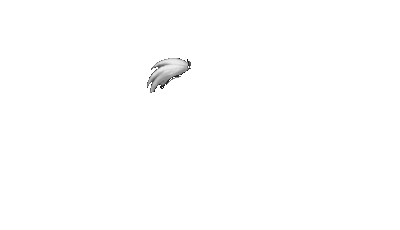
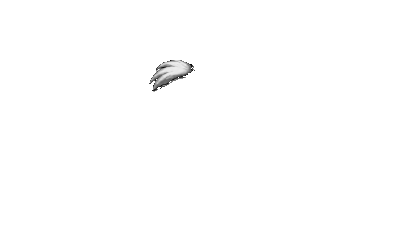
Dual slash: user's Gemini slash waves as an effect layer, motion-blurred weapon
Cells 3 and 4 of the male dual sheet are the user's Gemini redraws. The wave is
split into soldier_dual_m_fx.png (soft alpha, kept out of the skin key) and the
hidden fists are given in soldier_dual_m_grips.json. The swinging weapon is
drawn motion-blurred inside the wave; the code wave remains the fallback.

Claude-Session: https://claude.ai/code/session_01M8ejkLTav7LEMdtajuWjkN

Changed region(s): [[0.36, 0.2435, 0.48, 0.3957]]

diff --git a/art_source/new_art/battle/process_battle.py b/art_source/new_art/battle/process_battle.py
@@ -233,6 +233,26 @@ def toward_longer(v, mask):
     return v
 
 
+# drawn effects (slash waves from the user's Gemini redraws): cut cell RGBA in, body-canvas RGBA out
+CELL_FX, FX_LAYERS, GRIP_AT = {}, {}, {}
+
+
+def fx_to_body(f, s, ground):
+    """Same geometry as to_body, keeping the effect's soft alpha."""
+    al = f[..., 3].astype(np.float32) / 255
+    W, H = round(f.shape[1] * s), round(f.shape[0] * s)
+    pm = [np.asarray(Image.fromarray(f[..., k].astype(np.float32) * al).resize((W, H), Image.BOX)) for k in range(3)]
+    am = np.asarray(Image.fromarray(al).resize((W, H), Image.BOX))
+    rgb = np.dstack(pm) / np.maximum(am, 1e-6)[..., None]
+    out = np.zeros((BODY_H, BODY_W, 4), np.uint8)
+    oy = FEET_Y - round(ground * s); ox = (BODY_W - W) // 2
+    ys, xs = np.where(am > 0.004)
+    ty, tx = ys + oy, xs + ox; k = (ty >= 0) & (ty < BODY_H) & (tx >= 0) & (tx < BODY_W)
+    out[ty[k], tx[k], :3] = np.clip(rgb[ys[k], xs[k]], 0, 255).astype(np.uint8)
+    out[ty[k], tx[k], 3] = np.clip(am[ys[k], xs[k]] * 255, 0, 255).astype(np.uint8)
+    return out
+
+
 def one_cell(cls, sex, stance, state, c, fg, s):
     st = state.split('_')[0]
     # attack2 reads like attack; a spear's ready keeps its tip forward (like attack), other wind-ups keep the weapon up
@@ -255,6 +275,16 @@ def one_cell(cls, sex, stance, state, c, fg, s):
         g = PP.orient({'back': hand(m, body)}, o); rods = m
     else:
         g = PP.orient(PP.grips_for(m, stance, body), o); rods = m
+    for h_ in ('back', 'front'):                           # hand-given fist positions (see <sheet>_grips.json)
+        if (sex, stance, state, h_) in GRIP_AT and h_ in g:
+            cx_, cy_ = GRIP_AT[(sex, stance, state, h_)]
+            W_ = round(c.shape[1] * s)
+            g[h_]['point'] = [round(cx_ * s + (BODY_W - W_) // 2, 1), round(cy_ * s + FEET_Y - round(ground * s), 1)]
+    if state in SLASH_HIDE and SLASH_HIDE[state][0] in g:    # hidden blade points along its swing
+        import math
+        hh, kind = SLASH_HIDE[state]; a_ = math.radians(g[hh]['angle'])
+        if (kind == 'sweep' and math.cos(a_) < 0) or (kind == 'chop' and math.sin(a_) < 0):
+            g[hh]['angle'] = round(float((g[hh]['angle'] + 360) % 360 - 180), 1)
     clean, on = clean_rods(body, rods, on)
     pts = [v['point'] for v in g.values() if isinstance(v, dict) and 'point' in v]
     fixed, skin, head, hairp = skin_split(clean, on, pts)
@@ -264,6 +294,10 @@ def one_cell(cls, sex, stance, state, c, fg, s):
     json.dump({'grips': g, 'head': head, 'scale': round(s, 4)}, open(os.path.join(HERE, 'grips', f'{n}.json'), 'w'))
     print(n, {k: (v.get('point'), v.get('angle')) for k, v in g.items() if isinstance(v, dict) and 'point' in v}, 'head', head)
     if hairp is not None: Image.fromarray(hairp, 'LA').save(os.path.join(HERE, 'layers', f'{n}_hair.png'))
+    if (sex, stance, state) in CELL_FX:
+        fxl = fx_to_body(CELL_FX[(sex, stance, state)], s, ground)
+        FX_LAYERS[(sex, stance, state)] = fxl
+        Image.fromarray(fxl).save(os.path.join(HERE, 'layers', f'{n}_fx.png'))
     return fixed, skin, g, head, hairp
 
 
@@ -293,10 +327,19 @@ def process(cls):
             sx, sy = a.shape[1] / 1536, a.shape[0] / 1024
             main = fname == sheets[0][0]
             cut = {}
+            fxp = os.path.join(HERE, 'source', fname.replace('_sheet.png', '_fx.png'))
+            fxa = np.asarray(Image.open(fxp).convert('RGBA')) if os.path.exists(fxp) else None
             for r, c, stance, state, (x0, y0, x1, y1) in cells(rws, cls):
                 if main and stance in extra_stances: continue          # that stance comes from its own sheet now
                 box = (round(x0 * sx), round(y0 * sy), round(x1 * sx), round(y1 * sy))
                 cut[(stance, state)] = cut_cell(a, box)
+                gjp = os.path.join(HERE, 'source', fname.replace('_sheet.png', '_grips.json'))
+                if os.path.exists(gjp):                       # fists hidden in a drawn effect: positions given by hand
+                    for h_, (gx_, gy_) in json.load(open(gjp)).get(state, {}).items():
+                        GRIP_AT[(sex, stance, state, h_)] = (gx_ * sx - 4, gy_ * sy - 4)   # cell px -> cut-cell px
+                if fxa is not None:
+                    f_ = fxa[box[1] + 4:box[3] - 4, box[0] + 4:box[2] - 4]
+                    if f_[..., 3].any(): CELL_FX[(sex, stance, state)] = f_
             hs = [figure_height(*cut[k])[0] for k in cut if k[1] == 'stand']
             s_sheet = FIG_H / float(np.median(hs))                  # each sheet scaled by its own stand figures
             if main: s = s_sheet
@@ -327,8 +370,8 @@ def split2h(g):
     return g
 
 
-# slash frames: the swinging hand's weapon is hidden behind a slash wave (user, 2026-11-21);
-# both weapons show again in FINISH. slash_left = off-hand (cyan, 'front') chop, slash_right = main hand (magenta, 'back') sweep.
+# slash frames (user, 2026-11-21): the swinging hand's weapon is drawn motion-blurred inside a slash wave (the wave the
+# user drew with Gemini, from <sheet>_fx.png, else slash_wave() in code); both weapons show normally again in FINISH. slash_left = off-hand (cyan, 'front') chop, slash_right = main hand (magenta, 'back') sweep.
 SLASH_HIDE = {'slash_left': ('front', 'chop'), 'slash_right': ('back', 'sweep')}
 
 
@@ -368,6 +411,33 @@ def slash_wave(im, kind, F, ang, L, SS=4):
     return np.asarray(out)
 
 
+def blur_weapon(im, wname, F, ang, kind, fist_r):
+    """The swinging weapon drawn fast: a few fading ghost copies along the swing, softened, plus the blade itself
+    slightly see-through. The handle inside the fist is left out so the blade comes out of the hand."""
+    import math
+    from PIL import ImageFilter
+    H, W = im.shape[:2]
+    def one(a, dx=0.0, dy=0.0, alpha=1.0):
+        img, gp, L = A.WEAPON[wname](a)
+        lay = np.zeros((H, W, 4), np.uint8); A.paste(lay, img, F[0] - gp[0] + dx, F[1] - gp[1] + dy)
+        lay = lay.astype(np.float32); lay[..., 3] *= alpha; return lay
+    ghosts = np.zeros((H, W, 4), np.float32)
+    N = 6
+    for k in range(N, 0, -1):               # oldest first, newer copies on top
+        if kind == 'chop':                   # came down from overhead: earlier = rotated back up about the fist
+            g_ = one(ang - 11 * k, alpha=0.5 * (1 - k / (N + 1)))
+        else:                                # backhand sweep: the hand came from the front, earlier = further right
+            g_ = one(ang - 2.5 * k, dx=7 * k, dy=-1.2 * k, alpha=0.5 * (1 - k / (N + 1)))
+        m = g_[..., 3] > 0; ghosts[m] = g_[m]
+    gim = Image.fromarray(np.clip(ghosts, 0, 255).astype(np.uint8)).filter(ImageFilter.GaussianBlur(1.6))
+    blade = Image.fromarray(np.clip(one(ang, alpha=0.88), 0, 255).astype(np.uint8)).filter(ImageFilter.GaussianBlur(0.7))
+    yy, xx = np.mgrid[:H, :W]; inside = np.hypot(xx - F[0], yy - F[1]) < fist_r
+    out = Image.fromarray(im).convert('RGBA')
+    for lay in (gim, blade):
+        la = np.asarray(lay).copy(); la[inside, 3] = 0; out.alpha_composite(Image.fromarray(la))
+    return np.asarray(out)
+
+
 def feet(b):
     ys, xs = np.where(b[..., 3] > 0); bot = ys.max(); low = ys > bot - 10
     return float(xs[low].mean()), float(bot)
@@ -404,7 +474,14 @@ def render(cls, data):
                 if hidden:
                     p, ang = g2[hide]['point'], g2[hide]['angle']
                     L = A.WEAPON[hidden[0]](ang)[2]
-                    im = slash_wave(im, kind, (A.CELL + dx + p[0], A.TOP + dy + p[1]), ang, L)
+                    F = (A.CELL + dx + p[0], A.TOP + dy + p[1])
+                    fxl = FX_LAYERS.get((sex, stance, state))
+                    if fxl is not None:              # the slash wave drawn by the user (Gemini), over the body
+                        o_ = Image.fromarray(im).convert('RGBA'); lay = np.zeros_like(np.asarray(o_)); A.paste(lay, fxl, A.CELL + dx, A.TOP + dy)
+                        o_.alpha_composite(Image.fromarray(lay)); im = np.asarray(o_)
+                    else:
+                        im = slash_wave(im, kind, F, ang, L)
+                    im = blur_weapon(im, hidden[0], F, ang, kind, max(4.5, g2[hide].get('fist_gap', 9) / 2))
                 if head and hair and cls not in HEADGEAR:
                     hl, hx, hy = hair_layer(sex, hair, hramp, head)
                     A.paste(im := im.copy(), hl, A.CELL + dx + hx, A.TOP + dy + hy)

diff --git a/art_source/new_art/battle/tools/gemini_fx_compose.py b/art_source/new_art/battle/tools/gemini_fx_compose.py
@@ -1,0 +1,72 @@
+"""Put the user's Gemini slash poses (cells 3 and 4) into the male dual sheet: body on green, slash wave as a separate
+RGBA layer (soldier_dual_m_fx.png, same size as the sheet), and a rod for the hidden hand so the grip is measured."""
+import numpy as np, math
+from PIL import Image, ImageDraw
+from scipy import ndimage as ndi
+SHEET = 'soldier_dual_m_sheet.png'
+sheet = np.asarray(Image.open(SHEET).convert('RGB')).copy()
+fxs = np.zeros(sheet.shape[:2] + (4,), np.uint8)
+def isgreen(a): a = a.astype(int); return (a[..., 1] - a[..., 0] > 60) & (a[..., 1] - a[..., 2] > 60)
+def rods(a):
+    a = a.astype(int); r, g, b = a[..., 0], a[..., 1], a[..., 2]
+    return ((r > 170) & (b > 170) & (g < 120)) | ((g > 170) & (b > 170) & (r < 120))
+def fig_box(mask, rodm):
+    m = mask & ~ndi.binary_dilation(rodm, iterations=3)
+    ys, xs = np.where(m); bot = ys.max(); low = ys > bot - 12
+    return ys.min(), bot, xs[low].mean()
+# (cell index, gemini name, hidden-hand fist in gemini px, blade angle, rod colour)
+JOBS = [(3, 'gem3', (840, 595), 60, (0, 255, 255)), (4, 'gem4', (255, 515), 18, (255, 0, 255))]
+STATE = {3: ('slash_left', 'front'), 4: ('slash_right', 'back')}
+GRIPS = {}
+c1 = sheet[0:512, 0:512]
+for idx, name, fist, ang, rc in JOBS:
+    r_, c_ = divmod(idx - 1, 3); y0, x0 = r_ * 512, c_ * 512
+    cell = sheet[y0:y0 + 512, x0:x0 + 512]
+    cm = ~isgreen(cell); cm[:6] = cm[-6:] = False; cm[:, :6] = cm[:, -6:] = False
+    gyc = 380 + int(np.argmax((cm[380:450] & (cell[380:450].astype(int).sum(-1) < 150)).sum(1)))
+    cm[gyc - 2:gyc + 3] &= ~(cell[gyc - 2:gyc + 3].astype(int).sum(-1) < 120)   # the ground line itself
+    lab, n = ndi.label(cm, np.ones((3, 3))); sz = ndi.sum(cm, lab, range(1, n + 1))
+    cm = np.isin(lab, [i + 1 for i, z in enumerate(sz) if z > 200])
+    t, bot, fx_ = fig_box(cm, rods(cell))
+    g = np.asarray(Image.open(name + '_body.png').convert('RGB')); full = np.load(name + '_full.npy')
+    gfx = np.asarray(Image.open(name + '_fx.png'))
+    gt, gb, gx = fig_box(full, rods(g))
+    s = (bot - t) / (gb - gt)
+    W, H = round(g.shape[1] * s), round(g.shape[0] * s)
+    al = full.astype(np.float32)
+    pm = np.dstack([np.asarray(Image.fromarray(g[..., k].astype(np.float32) * al).resize((W, H), Image.BOX)) for k in range(3)])
+    am = np.asarray(Image.fromarray(al).resize((W, H), Image.BOX))
+    rgb = pm / np.maximum(am, 1e-6)[..., None]
+    fa = gfx[..., 3].astype(np.float32) / 255
+    fpm = np.dstack([np.asarray(Image.fromarray(gfx[..., k].astype(np.float32) * fa).resize((W, H), Image.BOX)) for k in range(3)])
+    fam = np.asarray(Image.fromarray(fa).resize((W, H), Image.BOX))
+    frgb = fpm / np.maximum(fam, 1e-6)[..., None]
+    ox, oy = round(fx_ - gx * s), round(bot - gb * s)
+    # clean cell: green + the template lines of cell 1 (ground line drawn full width)
+    new = np.zeros_like(cell); new[:] = (0, 255, 0)
+    gy = 400 + int(np.argmax((c1[400:430].astype(int).sum(-1) < 150).sum(1)))
+    new[gy - 1:gy + 2, 14:498] = c1[gy, 14:498].min(0) if False else (20, 20, 20)
+    dash = (c1[110:140].astype(int).sum(-1) < 300) & ~isgreen(c1[110:140])
+    dash[:, 200:340] = False                                         # skip cell 1's helmet
+    new[110:140][dash] = c1[110:140][dash]
+    new[:3] = cell[:3]; new[-3:] = cell[-3:]; new[:, :3] = cell[:, :3]; new[:, -3:] = cell[:, -3:]
+    ys, xs = np.where(am > 0.5)
+    ty, tx = ys + oy, xs + ox; k = (ty >= 3) & (ty < 509) & (tx >= 3) & (tx < 509)
+    new[ty[k], tx[k]] = np.clip(rgb[ys[k], xs[k]], 0, 255).astype(np.uint8)
+    # rod for the hidden hand: through the fist, mostly on the blade side; fist pixels stay on top
+    F = np.array(fist, float) * s + (ox, oy); d = np.array([math.cos(math.radians(ang)), math.sin(math.radians(ang))])
+    fistm = np.zeros((512, 512), bool); yy, xx = np.mgrid[:512, :512]
+    fistm = (np.hypot(xx - F[0], yy - F[1]) < 9) & ~isgreen(new)
+    keep = new[fistm].copy()
+    im = Image.fromarray(new); ImageDraw.Draw(im).line([tuple(F - d * 16), tuple(F + d * 70)], fill=rc, width=8)
+    new = np.asarray(im).copy(); new[fistm] = keep
+    sheet[y0:y0 + 512, x0:x0 + 512] = new
+    ys, xs = np.where(fam > 0.003)
+    ty, tx = ys + oy, xs + ox; k = (ty >= 0) & (ty < 512) & (tx >= 0) & (tx < 512)
+    fxs[y0 + ty[k], x0 + tx[k], :3] = np.clip(frgb[ys[k], xs[k]], 0, 255).astype(np.uint8)
+    fxs[y0 + ty[k], x0 + tx[k], 3] = (fam[ys[k], xs[k]] * 255).astype(np.uint8)
+    GRIPS.setdefault(STATE[idx][0], {})[STATE[idx][1]] = [round(float(F[0]), 1), round(float(F[1]), 1)]
+    print(name, 'scale', round(s, 4), 'offset', ox, oy, 'fist', F.round(1))
+import json; json.dump(GRIPS, open('soldier_dual_m_grips.json', 'w'), indent=1)
+Image.fromarray(sheet).save('soldier_dual_m_sheet_gem.png'); Image.fromarray(fxs).save('soldier_dual_m_fx.png')
+v = Image.fromarray(sheet).convert('RGBA'); v.alpha_composite(Image.fromarray(fxs)); v.convert('RGB').resize((1152, 768), Image.LANCZOS).save('gem_sheet_view.png')

diff --git a/art_source/new_art/battle/tools/gemini_fx_split.py b/art_source/new_art/battle/tools/gemini_fx_split.py
@@ -1,0 +1,70 @@
+import numpy as np, cv2
+from PIL import Image
+from scipy import ndimage as ndi
+def split(path, face_box, hide_poly=None):
+    a = np.asarray(Image.open(path).convert('RGB')).astype(int)
+    r, g, b = a[..., 0], a[..., 1], a[..., 2]; mx = a.max(-1)
+    bg = mx <= 14
+    lab, n = ndi.label(bg); edge = set(np.unique(np.r_[lab[0], lab[-1], lab[:, 0], lab[:, -1]])) - {0}
+    bg_out = np.isin(lab, list(edge))                       # background reachable from the border
+    wave = ((b < 0.35 * r) & (r > 60) & (g > 0.35 * r)) | ((g - b > 18) & (np.minimum(r, g) > 200))
+    x0, y0, x1, y1 = face_box; wave[y0:y1, x0:x1] = False
+    wl, wn = ndi.label(wave, np.ones((3, 3))); ws = ndi.sum(wave, wl, range(1, wn + 1))
+    wave = np.isin(wl, [i + 1 for i, z in enumerate(ws) if z > 15000])
+    bright = (np.minimum(np.minimum(r, g), b) > 185) & (g >= b) & ~bg       # white core of the streaks
+    bright[y0:y1, x0:x1] = False
+    for _ in range(40):
+        nw = wave | (bright & ndi.binary_dilation(wave, iterations=2))
+        if (nw == wave).all(): break
+        wave = nw
+    # glow fringe: dark warm pixels next to the wave over the background
+    fr = ndi.binary_dilation(wave, iterations=6) & ~wave & (r > g) & (g >= b) & (r - b > 12) & (mx < 120)
+    fxm = wave | fr
+    # thick dark streaks of the glow (not thin outlines) near the wave belong to the glow
+    darkb = (mx < 60) & ~bg & ndi.binary_dilation(wave, iterations=30)
+    darkb = ndi.binary_opening(darkb, iterations=3)
+    darkb = ndi.binary_dilation(darkb, iterations=1) & (mx < 80)
+    fxm |= darkb
+    body = ~bg & ~fxm
+    bl, bn = ndi.label(body, np.ones((3, 3))); bs = ndi.sum(body, bl, range(1, bn + 1))
+    body = np.isin(bl, [i + 1 for i, z in enumerate(bs) if z > 400])
+    # body hidden under the wave: wave / gap pixels with body above AND below in the same column (within 140 px)
+    up = np.zeros_like(body); dn = np.zeros_like(body)
+    for k in range(1, 241, 3):
+        up[k:] |= body[:-k]; dn[:-k] |= body[k:]
+    hid = (fxm | (bg & ~bg_out) | (bg & ndi.binary_dilation(fxm, iterations=8))) & up & dn & ~body
+    hid = ndi.binary_closing(hid, iterations=2) & ~body
+    if hide_poly is not None:                                   # hand-marked body area under the wave
+        from PIL import ImageDraw
+        pm = Image.new('L', (a.shape[1], a.shape[0]), 0); ImageDraw.Draw(pm).polygon(hide_poly, fill=1)
+        hid = (np.asarray(pm) > 0) & ~body & up & dn
+    full = body | hid
+    fl, fn = ndi.label(ndi.binary_closing(full, iterations=2), np.ones((3, 3)))
+    fs = ndi.sum(full, fl, range(1, fn + 1))
+    rodpx = ((g > 170) & (b > 170) & (r < 120)) | ((r > 170) & (b > 170) & (g < 120))     # guide rods stay body
+    rid = set(np.unique(fl[rodpx & full])) - {0}
+    full = full & np.isin(fl, [i + 1 for i, z in enumerate(fs) if z > 20000 or (i + 1) in rid]); body = body & full; hid = hid & full
+    fxm = ~bg & ~body                                          # every leftover bit belongs to the glow layer
+    img = a.astype(np.uint8).copy()
+    iy, ix = ndi.distance_transform_edt(~body, return_distances=False, return_indices=True)
+    img[~body] = img[iy[~body], ix[~body]]                     # every non-body pixel takes the nearest body colour
+    sm = cv2.GaussianBlur(img, (0, 0), 6); img[hid] = sm[hid]; img[~full] = 0
+    # fx layer: unpremultiply from black
+    al = np.where(wave, np.clip(mx / 170, 0, 1), np.clip(mx / 255, 0, 1)) * fxm
+    al = np.where(fxm & ~wave & full, 0, al)                   # dark gaps over the body: show the body
+    al = np.where(wave & full, 1.0, al)                        # over the body the drawn wave is opaque
+    col = np.clip(a / np.maximum(al, 1e-3)[..., None], 0, 255)
+    fx = np.dstack([col, al * 255]).astype(np.uint8); fx[al == 0] = 0
+    return img, full, fx
+if __name__ == '__main__':
+    import sys
+    P4 = [(600, 548), (880, 515), (965, 600), (1005, 688), (1000, 706), (495, 706), (520, 640)]
+    for n, fb, hp in (('gem3', (560, 180, 760, 340), None), ('gem4', (660, 200, 860, 360), P4)):
+        img, full, fx = split(n + '.png', fb, hp)
+        np.save(n + '_full.npy', full)
+        Image.fromarray(img).save(n + '_body.png'); Image.fromarray(fx).save(n + '_fx.png')
+        bgc = np.full(img.shape, (236, 230, 216), np.uint8)
+        v1 = np.where(full[..., None], img, bgc)
+        v2 = Image.fromarray(v1).convert('RGBA'); v2.alpha_composite(Image.fromarray(fx))
+        s = Image.new('RGB', (img.shape[1] * 2, img.shape[0])); s.paste(Image.fromarray(v1), (0, 0)); s.paste(v2.convert('RGB'), (img.shape[1], 0))
+        s.resize((s.width // 2, s.height // 2), Image.LANCZOS).save(n + '_split.png')

diff --git a/docs/design-decisions.md b/docs/design-decisions.md
@@ -28,7 +28,7 @@ Armor ladder: **cloth → light → medium → heavy**. "Up to X" includes every
 
 Archer and Mage melee weapons limited to **light** weapons on 2026-11-16 (user: "wear only light weapon", read as weapons, not armor). Read as light **simple** weapons, since both classes were simple-only before; light martial (short sword, kukri) not confirmed. In PF1e sizes, club and shortspear (both in the user's original Archer list) are one-handed, not light, so they are now excluded unless the user re-sizes them.
 
-**Shields (user, 2026-11-20): each class has its own shield shape** — Soldier = **square** shield, Acolyte and Warrior = **round** shield (the Warrior could not use shields before; this adds it), **kite shield = reserved for a future Knight class**. A one-handed weapon **without** a shield uses the **dual-weapon stance** (left hand empty) in battle sprites. **The shield look is fixed per class** (user, 2026-11-20): shield equipment comes in broad categories (**light shield, heavy shield, tower shield**) that change the rules only; the sprite and the shield stance always show the class's own shield. Shield categories are not in the weapon sheet yet. **Headgear (user, 2026-11-20): battle sprites wear class headgear, portraits never do.** It is drawn into the sprite body by ChatGPT, so battle sprites have **no hair layer** (the portrait-hair sample is dropped for helmeted classes, `HEADGEAR` in `process_battle.py`). **Soldier final design** (`source/concepts/soldier_final_design.png`): plain open-face **barbute helm** (no crest, gold or emblem), simple silver plate armour, blue scarf and tabard, brown leather belt and gloves; the face is the only skin (yellow key). Soldier v3 prompt in `PROMPTS.md` (4 rows: square shield, dual, two-handed, spear), ~6 heads tall including the helmet. Helmet variations and faction colours on that sheet are not used. **Hair under the helmet (user, 2026-11-20):** ChatGPT draws a long-hair ponytail behind the neck in shades of **pure red** (never covering the body); `process_battle.py` cuts it into a hair value-map layer tinted with the hero's hair ramp and shows it **only for long portrait hairstyles** (`art_source/new_art/battle/hair_length.json`: male ponytail, long, wild_mane; female long, ponytail, braids, wavy, side_braid, curly_mane, warrior_halfup; buns/topknots/crown braids count as short). Both sexes get the piece. **Four sprites per stance (user, 2026-11-20, extends the three-sprite rule):** STAND | **READY** (the wind-up a moment before the attack) | ATTACK | GET HIT; the **dual row** is STAND | **ATTACK 1 (main hand)** | **ATTACK 2 (off-hand)** | GET HIT, because dual wield hits twice. Playback: stand → ready → attack → stand (dual: stand → attack 1 → attack 2 → stand); one weapon in the dual stance uses only attack 1. Soldier template is now 4 × 4 (`make_refs.py` `CLASS_STATES`), prompt v5 in `PROMPTS.md`. **Hand convention (corrected 2026-11-20):** in right-facing sprites the character's **LEFT arm is the lead arm** (right side of the picture, the shield arm) and the **RIGHT arm is the rear arm**; magenta (main weapon) is always in the right/rear hand, cyan in the left/lead hand, and the main-hand attack swings the rear arm forward across the body. An earlier prompt rule ("right hand leading on the right of the picture") was wrong and made ChatGPT draw both dual attacks with the left arm; the v5 male sheet's dual stand/hit are swapped back in code (`SWAP_HANDS`) and its ATTACK 1 needs the edit prompt in `PROMPTS.md`. **Dual weapons get their own sheet (user's dual-slash concept, 2026-11-21):** stand → ready (front/cyan arm winds up) → slash 1 (cyan chops down) → slash 2 (magenta sweeps across) → finish (magenta follow-through) → plus get hit; template `soldier_dual_template.png` (2 × 3), prompt names the arms only by rod colour (front arm = cyan, back arm = magenta), never left/right. Main Soldier sheet is now 3 rows × 4 (shield, two-handed, spear). One weapon without shield plays stand → slash 2 → finish from the magenta hand. The off-hand (cyan) hit shows first, the main hand second. **Slash waves (user, 2026-11-21):** in slash 1 the cyan weapon is hidden behind a slash wave (a chop arc from overhead down to the front foot), in slash 2 the magenta weapon is hidden behind a waist-level sweep wave; both weapons show again in finish (`SLASH_HIDE` / `slash_wave()` in `process_battle.py`). **Male dual sheet hand-fixed (2026-11-21):** ChatGPT kept putting the cyan rod on the near arm in slash 1 and swinging the main arm forward in slash 2 / finish, so those cells were rebuilt in code from the sheet's own parts (raw sheet in `source/concepts/soldier_dual_m_gpt_raw.png`); the near arm (big pauldron over the chest, left of the picture) always holds magenta. `SWAP_HANDS` is now empty. **Dual row:** the first helmet sheets drew the dual stand facing the viewer and the attack side-on, so the weapon seemed to change hands; the Soldier v4 prompt keeps the right hand leading on the right of the figure in all three poses.
+**Shields (user, 2026-11-20): each class has its own shield shape** — Soldier = **square** shield, Acolyte and Warrior = **round** shield (the Warrior could not use shields before; this adds it), **kite shield = reserved for a future Knight class**. A one-handed weapon **without** a shield uses the **dual-weapon stance** (left hand empty) in battle sprites. **The shield look is fixed per class** (user, 2026-11-20): shield equipment comes in broad categories (**light shield, heavy shield, tower shield**) that change the rules only; the sprite and the shield stance always show the class's own shield. Shield categories are not in the weapon sheet yet. **Headgear (user, 2026-11-20): battle sprites wear class headgear, portraits never do.** It is drawn into the sprite body by ChatGPT, so battle sprites have **no hair layer** (the portrait-hair sample is dropped for helmeted classes, `HEADGEAR` in `process_battle.py`). **Soldier final design** (`source/concepts/soldier_final_design.png`): plain open-face **barbute helm** (no crest, gold or emblem), simple silver plate armour, blue scarf and tabard, brown leather belt and gloves; the face is the only skin (yellow key). Soldier v3 prompt in `PROMPTS.md` (4 rows: square shield, dual, two-handed, spear), ~6 heads tall including the helmet. Helmet variations and faction colours on that sheet are not used. **Hair under the helmet (user, 2026-11-20):** ChatGPT draws a long-hair ponytail behind the neck in shades of **pure red** (never covering the body); `process_battle.py` cuts it into a hair value-map layer tinted with the hero's hair ramp and shows it **only for long portrait hairstyles** (`art_source/new_art/battle/hair_length.json`: male ponytail, long, wild_mane; female long, ponytail, braids, wavy, side_braid, curly_mane, warrior_halfup; buns/topknots/crown braids count as short). Both sexes get the piece. **Four sprites per stance (user, 2026-11-20, extends the three-sprite rule):** STAND | **READY** (the wind-up a moment before the attack) | ATTACK | GET HIT; the **dual row** is STAND | **ATTACK 1 (main hand)** | **ATTACK 2 (off-hand)** | GET HIT, because dual wield hits twice. Playback: stand → ready → attack → stand (dual: stand → attack 1 → attack 2 → stand); one weapon in the dual stance uses only attack 1. Soldier template is now 4 × 4 (`make_refs.py` `CLASS_STATES`), prompt v5 in `PROMPTS.md`. **Hand convention (corrected 2026-11-20):** in right-facing sprites the character's **LEFT arm is the lead arm** (right side of the picture, the shield arm) and the **RIGHT arm is the rear arm**; magenta (main weapon) is always in the right/rear hand, cyan in the left/lead hand, and the main-hand attack swings the rear arm forward across the body. An earlier prompt rule ("right hand leading on the right of the picture") was wrong and made ChatGPT draw both dual attacks with the left arm; the v5 male sheet's dual stand/hit are swapped back in code (`SWAP_HANDS`) and its ATTACK 1 needs the edit prompt in `PROMPTS.md`. **Dual weapons get their own sheet (user's dual-slash concept, 2026-11-21):** stand → ready (front/cyan arm winds up) → slash 1 (cyan chops down) → slash 2 (magenta sweeps across) → finish (magenta follow-through) → plus get hit; template `soldier_dual_template.png` (2 × 3), prompt names the arms only by rod colour (front arm = cyan, back arm = magenta), never left/right. Main Soldier sheet is now 3 rows × 4 (shield, two-handed, spear). One weapon without shield plays stand → slash 2 → finish from the magenta hand. The off-hand (cyan) hit shows first, the main hand second. **Slash waves (user, 2026-11-21):** in slash 1 the cyan weapon is hidden behind a slash wave (a chop arc from overhead down to the front foot), in slash 2 the magenta weapon is hidden behind a waist-level sweep wave; both weapons show again in finish (`SLASH_HIDE` / `slash_wave()` in `process_battle.py`). **Male dual sheet hand-fixed (2026-11-21):** ChatGPT kept putting the cyan rod on the near arm in slash 1 and swinging the main arm forward in slash 2 / finish, so those cells were rebuilt in code from the sheet's own parts (raw sheet in `source/concepts/soldier_dual_m_gpt_raw.png`); the near arm (big pauldron over the chest, left of the picture) always holds magenta. `SWAP_HANDS` is now empty. **Drawn slash waves + blurred weapon (user, 2026-11-21):** the user redrew slash 1 and slash 2 in Gemini with the slash wave drawn in (`source/concepts/soldier_dual_m_slash1_gemini.png`, `_slash2_gemini.png`); they replace cells 3 and 4 of the male dual sheet. The wave is split off into its own soft-alpha layer (`source/soldier_dual_m_fx.png`, same size as the sheet, `tools/gemini_fx_split.py` + `gemini_fx_compose.py`), so its yellow never reaches the skin key; the hidden fists' positions are in `source/soldier_dual_m_grips.json`. In those frames the swinging weapon is no longer hidden: it is drawn **motion-blurred** inside the wave (fading ghost copies along the swing plus a soft blade, `blur_weapon()`), the code wave `slash_wave()` stays as the fallback for sheets without a drawn wave. **Dual row:** the first helmet sheets drew the dual stand facing the viewer and the attack side-on, so the weapon seemed to change hands; the Soldier v4 prompt keeps the right hand leading on the right of the figure in all three poses.
 
 **Warrior look (user, 2026-11-18): a barbarian, but armored** — can wear up to medium armor, so leather and chain or scale over a barbarian build (furs, leather harness), not the old Brawler's sleeveless tunic. Exact outfit to be drawn with the new art. Legacy battle-sprite and portrait files keep the name `brawler` (they are the old look and reference only).
 
